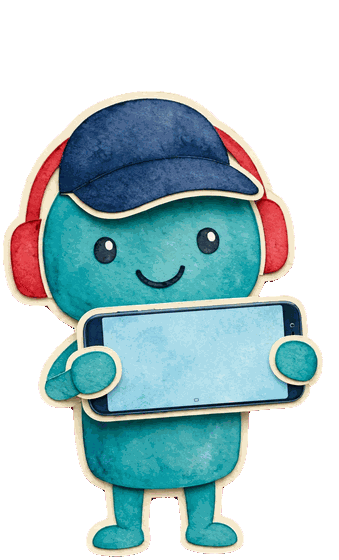
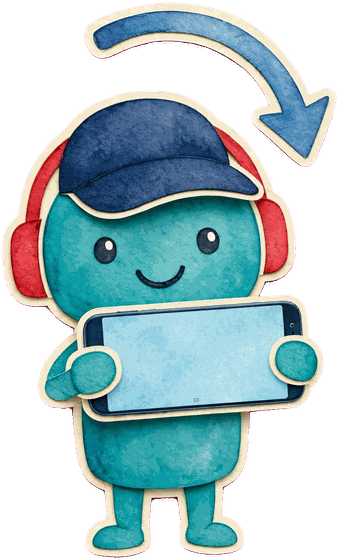
Khôi phục hình Kai cầm điện thoại (giữ mũi tên xoay)
Claude-Session: https://claude.ai/code/session_01AHzGepJt93aQaJT6t7Vsc8

Changed region(s): [[0.236, 0.0, 1.0, 0.3036], [0.472, 0.8804, 0.531, 0.9107]]

diff --git a/game/data/asset_rev.js b/game/data/asset_rev.js
@@ -119,7 +119,7 @@ G.ASSET_REV = {"badge_1.webp":"4cd4eec0",
 "kai_left.png":"80447847",
 "kai_left_w1.png":"7c428378",
 "kai_left_w2.png":"9dae6825",
-"kai_rotate.png":"8c54fa73",
+"kai_rotate.png":"ba5e50a2",
 "kai_up.png":"fd3e69fe",
 "kai_up_w1.png":"88d269df",
 "kai_up_w2.png":"b50eb77c",
